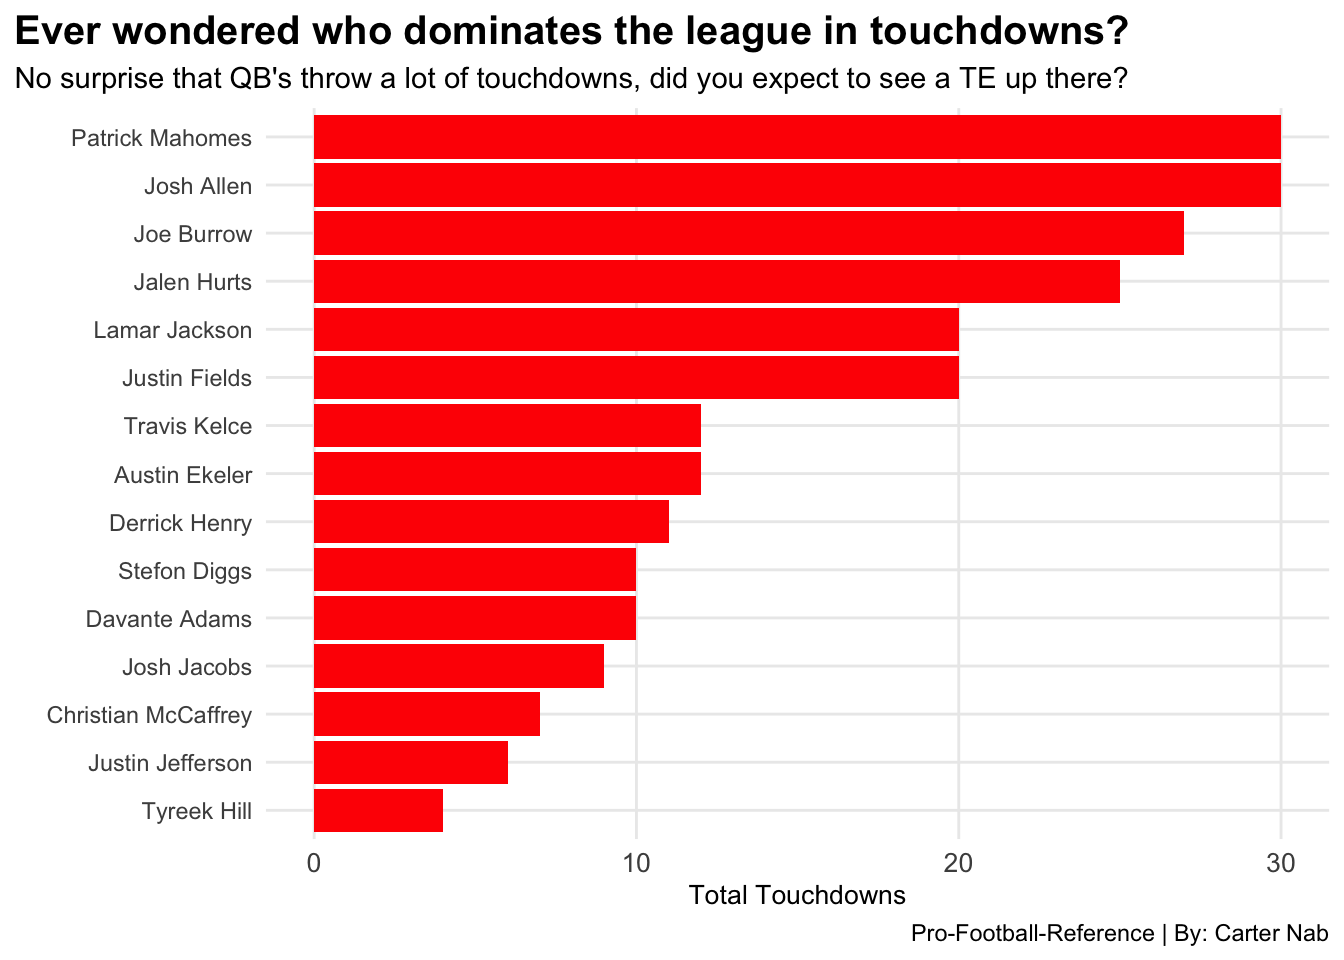
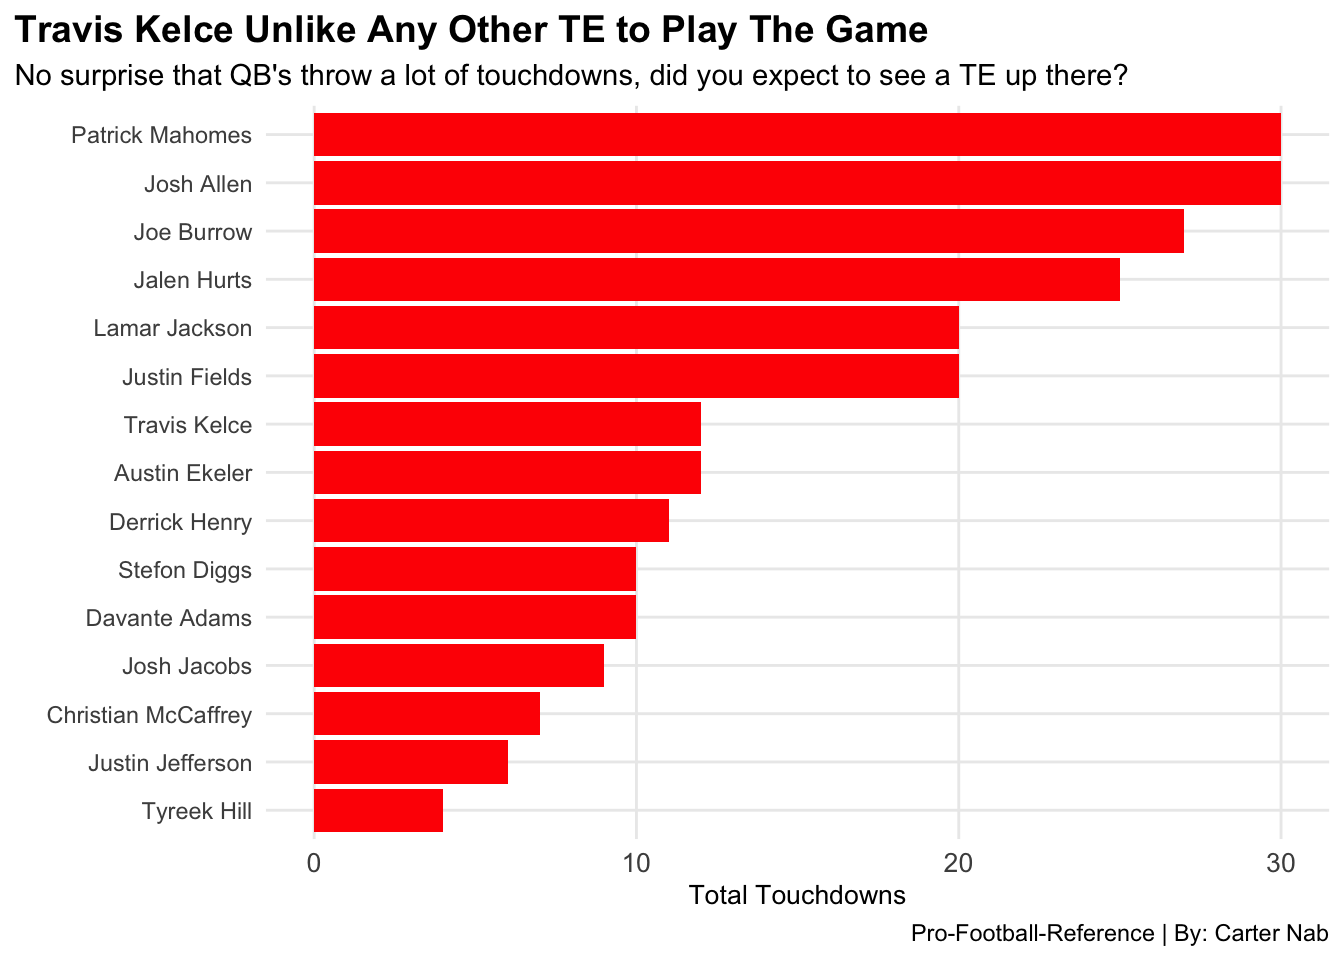
more changes #2

diff --git a/posts/fantasy-football/index.html b/posts/fantasy-football/index.html
@@ -199,7 +199,7 @@ code span.wa { color: #60a0b0; font-weight: bold; font-style: italic; } /* Warni
 
 
 
-<p>Blog post:</p>
+<p>For football fans, this is an very competitive time of year. Odds are your favorite CFB team isn’t going to the Playoff, so like many of you out there we resort to assembling the best possible Fantasy Football team we can to have bragging rights until next season. It is no easy task to draft a Fantasy Football team that will win the league, there’s so many names and positions to remember. The goal of this project is to give some valuable insight on some of the top performing NFL athletes that you should keep in mind for next season!</p>
 <div class="cell">
 <details>
 <summary>Code</summary>
@@ -237,12 +237,12 @@ code span.wa { color: #60a0b0; font-weight: bold; font-style: italic; } /* Warni
 </details>
 <div class="cell-output-display">
 
-<div id="kktmkwhrfo" style="padding-left:0px;padding-right:0px;padding-top:10px;padding-bottom:10px;overflow-x:auto;overflow-y:auto;width:auto;height:auto;">
+<div id="nhlxxgaagm" style="padding-left:0px;padding-right:0px;padding-top:10px;padding-bottom:10px;overflow-x:auto;overflow-y:auto;width:auto;height:auto;">
 <style>html {
   font-family: -apple-system, BlinkMacSystemFont, 'Segoe UI', Roboto, Oxygen, Ubuntu, Cantarell, 'Helvetica Neue', 'Fira Sans', 'Droid Sans', Arial, sans-serif;
 }
 
-#kktmkwhrfo .gt_table {
+#nhlxxgaagm .gt_table {
   display: table;
   border-collapse: collapse;
   margin-left: auto;
@@ -267,7 +267,7 @@ code span.wa { color: #60a0b0; font-weight: bold; font-style: italic; } /* Warni
   border-left-color: #D3D3D3;
 }
 
-#kktmkwhrfo .gt_heading {
+#nhlxxgaagm .gt_heading {
   background-color: #FFFFFF;
   text-align: center;
   border-bottom-color: #FFFFFF;
@@ -279,12 +279,12 @@ code span.wa { color: #60a0b0; font-weight: bold; font-style: italic; } /* Warni
   border-right-color: #D3D3D3;
 }
 
-#kktmkwhrfo .gt_caption {
+#nhlxxgaagm .gt_caption {
   padding-top: 4px;
   padding-bottom: 4px;
 }
 
-#kktmkwhrfo .gt_title {
+#nhlxxgaagm .gt_title {
   color: #333333;
   font-size: 125%;
   font-weight: initial;
@@ -296,7 +296,7 @@ code span.wa { color: #60a0b0; font-weight: bold; font-style: italic; } /* Warni
   border-bottom-width: 0;
 }
 
-#kktmkwhrfo .gt_subtitle {
+#nhlxxgaagm .gt_subtitle {
   color: #333333;
   font-size: 85%;
   font-weight: initial;
@@ -308,13 +308,13 @@ code span.wa { color: #60a0b0; font-weight: bold; font-style: italic; } /* Warni
   border-top-width: 0;
 }
 
-#kktmkwhrfo .gt_bottom_border {
+#nhlxxgaagm .gt_bottom_border {
   border-bottom-style: solid;
   border-bottom-width: 2px;
   border-bottom-color: #D3D3D3;
 }
 
-#kktmkwhrfo .gt_col_headings {
+#nhlxxgaagm .gt_col_headings {
   border-top-style: solid;
   border-top-width: 2px;
   border-top-color: #D3D3D3;
@@ -329,7 +329,7 @@ code span.wa { color: #60a0b0; font-weight: bold; font-style: italic; } /* Warni
   border-right-color: #D3D3D3;
 }
 
-#kktmkwhrfo .gt_col_heading {
+#nhlxxgaagm .gt_col_heading {
   color: #333333;
   background-color: #FFFFFF;
   font-size: 100%;
@@ -349,7 +349,7 @@ code span.wa { color: #60a0b0; font-weight: bold; font-style: italic; } /* Warni
   overflow-x: hidden;
 }
 
-#kktmkwhrfo .gt_column_spanner_outer {
+#nhlxxgaagm .gt_column_spanner_outer {
   color: #333333;
   background-color: #FFFFFF;
   font-size: 100%;
@@ -361,15 +361,15 @@ code span.wa { color: #60a0b0; font-weight: bold; font-style: italic; } /* Warni
   padding-right: 4px;
 }
 
-#kktmkwhrfo .gt_column_spanner_outer:first-child {
+#nhlxxgaagm .gt_column_spanner_outer:first-child {
   padding-left: 0;
 }
 
-#kktmkwhrfo .gt_column_spanner_outer:last-child {
+#nhlxxgaagm .gt_column_spanner_outer:last-child {
   padding-right: 0;
 }
 
-#kktmkwhrfo .gt_column_spanner {
+#nhlxxgaagm .gt_column_spanner {
   border-bottom-style: solid;
   border-bottom-width: 2px;
   border-bottom-color: #D3D3D3;
@@ -381,7 +381,7 @@ code span.wa { color: #60a0b0; font-weight: bold; font-style: italic; } /* Warni
   width: 100%;
 }
 
-#kktmkwhrfo .gt_group_heading {
+#nhlxxgaagm .gt_group_heading {
   padding-top: 8px;
   padding-bottom: 8px;
   padding-left: 5px;
@@ -407,7 +407,7 @@ code span.wa { color: #60a0b0; font-weight: bold; font-style: italic; } /* Warni
   text-align: left;
 }
 
-#kktmkwhrfo .gt_empty_group_heading {
+#nhlxxgaagm .gt_empty_group_heading {
   padding: 0.5px;
   color: #333333;
   background-color: #FFFFFF;
@@ -422,15 +422,15 @@ code span.wa { color: #60a0b0; font-weight: bold; font-style: italic; } /* Warni
   vertical-align: middle;
 }
 
-#kktmkwhrfo .gt_from_md > :first-child {
+#nhlxxgaagm .gt_from_md > :first-child {
   margin-top: 0;
 }
 
-#kktmkwhrfo .gt_from_md > :last-child {
+#nhlxxgaagm .gt_from_md > :last-child {
   margin-bottom: 0;
 }
 
-#kktmkwhrfo .gt_row {
+#nhlxxgaagm .gt_row {
   padding-top: 8px;
   padding-bottom: 8px;
   padding-left: 5px;
@@ -449,7 +449,7 @@ code span.wa { color: #60a0b0; font-weight: bold; font-style: italic; } /* Warni
   overflow-x: hidden;
 }
 
-#kktmkwhrfo .gt_stub {
+#nhlxxgaagm .gt_stub {
   color: #333333;
   background-color: #FFFFFF;
   font-size: 100%;
@@ -462,7 +462,7 @@ code span.wa { color: #60a0b0; font-weight: bold; font-style: italic; } /* Warni
   padding-right: 5px;
 }
 
-#kktmkwhrfo .gt_stub_row_group {
+#nhlxxgaagm .gt_stub_row_group {
   color: #333333;
   background-color: #FFFFFF;
   font-size: 100%;
@@ -476,11 +476,11 @@ code span.wa { color: #60a0b0; font-weight: bold; font-style: italic; } /* Warni
   vertical-align: top;
 }
 
-#kktmkwhrfo .gt_row_group_first td {
+#nhlxxgaagm .gt_row_group_first td {
   border-top-width: 2px;
 }
 
-#kktmkwhrfo .gt_summary_row {
+#nhlxxgaagm .gt_summary_row {
   color: #333333;
   background-color: #FFFFFF;
   text-transform: inherit;
@@ -490,16 +490,16 @@ code span.wa { color: #60a0b0; font-weight: bold; font-style: italic; } /* Warni
   padding-right: 5px;
 }
 
-#kktmkwhrfo .gt_first_summary_row {
+#nhlxxgaagm .gt_first_summary_row {
   border-top-style: solid;
   border-top-color: #D3D3D3;
 }
 
-#kktmkwhrfo .gt_first_summary_row.thick {
+#nhlxxgaagm .gt_first_summary_row.thick {
   border-top-width: 2px;
 }
 
-#kktmkwhrfo .gt_last_summary_row {
+#nhlxxgaagm .gt_last_summary_row {
   padding-top: 8px;
   padding-bottom: 8px;
   padding-left: 5px;
@@ -509,7 +509,7 @@ code span.wa { color: #60a0b0; font-weight: bold; font-style: italic; } /* Warni
   border-bottom-color: #D3D3D3;
 }
 
-#kktmkwhrfo .gt_grand_summary_row {
+#nhlxxgaagm .gt_grand_summary_row {
   color: #333333;
   background-color: #FFFFFF;
   text-transform: inherit;
@@ -519,7 +519,7 @@ code span.wa { color: #60a0b0; font-weight: bold; font-style: italic; } /* Warni
   padding-right: 5px;
 }
 
-#kktmkwhrfo .gt_first_grand_summary_row {
+#nhlxxgaagm .gt_first_grand_summary_row {
   padding-top: 8px;
   padding-bottom: 8px;
   padding-left: 5px;
@@ -529,11 +529,11 @@ code span.wa { color: #60a0b0; font-weight: bold; font-style: italic; } /* Warni
   border-top-color: #D3D3D3;
 }
 
-#kktmkwhrfo .gt_striped {
+#nhlxxgaagm .gt_striped {
   background-color: rgba(128, 128, 128, 0.05);
 }
 
-#kktmkwhrfo .gt_table_body {
+#nhlxxgaagm .gt_table_body {
   border-top-style: solid;
   border-top-width: 2px;
   border-top-color: #D3D3D3;
@@ -542,7 +542,7 @@ code span.wa { color: #60a0b0; font-weight: bold; font-style: italic; } /* Warni
   border-bottom-color: #D3D3D3;
 }
 
-#kktmkwhrfo .gt_footnotes {
+#nhlxxgaagm .gt_footnotes {
   color: #333333;
   background-color: #FFFFFF;
   border-bottom-style: none;
@@ -556,7 +556,7 @@ code span.wa { color: #60a0b0; font-weight: bold; font-style: italic; } /* Warni
   border-right-color: #D3D3D3;
 }
 
-#kktmkwhrfo .gt_footnote {
+#nhlxxgaagm .gt_footnote {
   margin: 0px;
   font-size: 90%;
   padding-left: 4px;
@@ -565,7 +565,7 @@ code span.wa { color: #60a0b0; font-weight: bold; font-style: italic; } /* Warni
   padding-right: 5px;
 }
 
-#kktmkwhrfo .gt_sourcenotes {
+#nhlxxgaagm .gt_sourcenotes {
   color: #333333;
   background-color: #FFFFFF;
   border-bottom-style: none;
@@ -579,7 +579,7 @@ code span.wa { color: #60a0b0; font-weight: bold; font-style: italic; } /* Warni
   border-right-color: #D3D3D3;
 }
 
-#kktmkwhrfo .gt_sourcenote {
+#nhlxxgaagm .gt_sourcenote {
   font-size: 90%;
   padding-top: 4px;
   padding-bottom: 4px;
@@ -587,64 +587,64 @@ code span.wa { color: #60a0b0; font-weight: bold; font-style: italic; } /* Warni
   padding-right: 5px;
 }
 
-#kktmkwhrfo .gt_left {
+#nhlxxgaagm .gt_left {
   text-align: left;
 }
 
-#kktmkwhrfo .gt_center {
+#nhlxxgaagm .gt_center {
   text-align: center;
 }
 
-#kktmkwhrfo .gt_right {
+#nhlxxgaagm .gt_right {
   text-align: right;
   font-variant-numeric: tabular-nums;
 }
 
-#kktmkwhrfo .gt_font_normal {
+#nhlxxgaagm .gt_font_normal {
   font-weight: normal;
 }
 
-#kktmkwhrfo .gt_font_bold {
+#nhlxxgaagm .gt_font_bold {
   font-weight: bold;
 }
 
-#kktmkwhrfo .gt_font_italic {
+#nhlxxgaagm .gt_font_italic {
   font-style: italic;
 }
 
-#kktmkwhrfo .gt_super {
+#nhlxxgaagm .gt_super {
   font-size: 65%;
 }
 
-#kktmkwhrfo .gt_footnote_marks {
+#nhlxxgaagm .gt_footnote_marks {
   font-style: italic;
   font-weight: normal;
   font-size: 75%;
   vertical-align: 0.4em;
 }
 
-#kktmkwhrfo .gt_asterisk {
+#nhlxxgaagm .gt_asterisk {
   font-size: 100%;
   vertical-align: 0;
 }
 
-#kktmkwhrfo .gt_indent_1 {
+#nhlxxgaagm .gt_indent_1 {
   text-indent: 5px;
 }
 
-#kktmkwhrfo .gt_indent_2 {
+#nhlxxgaagm .gt_indent_2 {
   text-indent: 10px;
 }
 
-#kktmkwhrfo .gt_indent_3 {
+#nhlxxgaagm .gt_indent_3 {
   text-indent: 15px;
 }
 
-#kktmkwhrfo .gt_indent_4 {
+#nhlxxgaagm .gt_indent_4 {
   text-indent: 20px;
 }
 
-#kktmkwhrfo .gt_indent_5 {
+#nhlxxgaagm .gt_indent_5 {
   text-indent: 25px;
 }
 </style>
@@ -753,6 +753,7 @@ code span.wa { color: #60a0b0; font-weight: bold; font-style: italic; } /* Warni
 </div>
 </div>
 </div>
+<p>If you’re familiar with the NFL all of these names should be very recognizable. Through 12 weeks of the 2022 NFL season these are the highest preforming athletes in terms of fantasy points. This list of the top 15 is made up of six quarterbacks, four running backs, four wide receivers and one tight end. If you can manage to draft two-four players from this list youll have a solid change of making the playoffs.</p>
 <div class="cell">
 <details>
 <summary>Code</summary>
@@ -770,7 +771,7 @@ code span.wa { color: #60a0b0; font-weight: bold; font-style: italic; } /* Warni
 <span id="cb2-12"><a href="#cb2-12" aria-hidden="true" tabindex="-1"></a>  <span class="fu">geom_bar</span>(<span class="at">data=</span>Touchdowns, <span class="fu">aes</span>(<span class="at">x=</span><span class="fu">reorder</span>(Player, TotalTouchdowns), <span class="at">weight=</span>TotalTouchdowns), <span class="at">fill=</span> <span class="st">"red"</span>) <span class="sc">+</span></span>
 <span id="cb2-13"><a href="#cb2-13" aria-hidden="true" tabindex="-1"></a>  <span class="fu">coord_flip</span>() <span class="sc">+</span></span>
 <span id="cb2-14"><a href="#cb2-14" aria-hidden="true" tabindex="-1"></a>  <span class="fu">labs</span>(</span>
-<span id="cb2-15"><a href="#cb2-15" aria-hidden="true" tabindex="-1"></a>    <span class="at">title =</span> <span class="st">"Ever wondered who dominates the league in touchdowns?"</span>,</span>
+<span id="cb2-15"><a href="#cb2-15" aria-hidden="true" tabindex="-1"></a>    <span class="at">title =</span> <span class="st">"Travis Kelce Unlike Any Other TE to Play The Game"</span>,</span>
 <span id="cb2-16"><a href="#cb2-16" aria-hidden="true" tabindex="-1"></a>    <span class="at">subtitle =</span> <span class="st">"No surprise that QB's throw a lot of touchdowns, did you expect to see a TE up there?"</span>,</span>
 <span id="cb2-17"><a href="#cb2-17" aria-hidden="true" tabindex="-1"></a>    <span class="at">x =</span> <span class="st">""</span>,</span>
 <span id="cb2-18"><a href="#cb2-18" aria-hidden="true" tabindex="-1"></a>    <span class="at">y =</span> <span class="st">"Total Touchdowns"</span>,</span>
@@ -778,7 +779,7 @@ code span.wa { color: #60a0b0; font-weight: bold; font-style: italic; } /* Warni
 <span id="cb2-20"><a href="#cb2-20" aria-hidden="true" tabindex="-1"></a>  ) <span class="sc">+</span></span>
 <span id="cb2-21"><a href="#cb2-21" aria-hidden="true" tabindex="-1"></a>  <span class="fu">theme_minimal</span>() <span class="sc">+</span></span>
 <span id="cb2-22"><a href="#cb2-22" aria-hidden="true" tabindex="-1"></a>  <span class="fu">theme</span>(</span>
-<span id="cb2-23"><a href="#cb2-23" aria-hidden="true" tabindex="-1"></a>    <span class="at">plot.title =</span> <span class="fu">element_text</span>(<span class="at">size =</span> <span class="dv">15</span>, <span class="at">face =</span> <span class="st">"bold"</span>),</span>
+<span id="cb2-23"><a href="#cb2-23" aria-hidden="true" tabindex="-1"></a>    <span class="at">plot.title =</span> <span class="fu">element_text</span>(<span class="at">size =</span> <span class="dv">14</span>, <span class="at">face =</span> <span class="st">"bold"</span>),</span>
 <span id="cb2-24"><a href="#cb2-24" aria-hidden="true" tabindex="-1"></a>    <span class="at">axis.title =</span> <span class="fu">element_text</span>(<span class="at">size =</span> <span class="dv">10</span>), </span>
 <span id="cb2-25"><a href="#cb2-25" aria-hidden="true" tabindex="-1"></a>    <span class="at">plot.subtitle =</span> <span class="fu">element_text</span>(<span class="at">size=</span><span class="dv">11</span>), </span>
 <span id="cb2-26"><a href="#cb2-26" aria-hidden="true" tabindex="-1"></a>    <span class="at">panel.grid.minor =</span> <span class="fu">element_blank</span>(),</span>
@@ -790,6 +791,7 @@ code span.wa { color: #60a0b0; font-weight: bold; font-style: italic; } /* Warni
 <p><img src="index_files/figure-html/unnamed-chunk-2-1.png" class="img-fluid" width="672"></p>
 </div>
 </div>
+<p>The best Fantasy players all have something in common, they score a lot of touchdowns. While its more typical for quarterbacks to have the most because they’re the most involved, what you really want is a RB, WR, or TE that scores a lot. Travis Kelce appears to be in a league of his own as the only tight end on this list.</p>
 <div class="cell">
 <details>
 <summary>Code</summary>

diff --git a/index.html b/index.html
@@ -157,7 +157,7 @@ ul.task-list{list-style: none;}
 
 <div class="quarto-listing quarto-listing-container-default" id="listing-listing">
 <div class="list quarto-listing-default">
-<div class="quarto-post image-right" data-index="0" data-categories="Fantasy,Football,analysis" data-listing-date-sort="1669874400000" data-listing-file-modified-sort="1670185267375" data-listing-reading-time-sort="1.55">
+<div class="quarto-post image-right" data-index="0" data-categories="Fantasy,Football,analysis" data-listing-date-sort="1669874400000" data-listing-file-modified-sort="1670191067782" data-listing-reading-time-sort="2.735">
 <div class="thumbnail">
 <p><a href="./posts/fantasy-football/index.html"> <img src="./posts/fantasy-football/image.png" class="thumnail-image"> </a></p>
 </div>
@@ -183,7 +183,7 @@ analysis
 </div>
 <a href="./posts/fantasy-football/index.html">
 <div class="listing-description">
-Blog post:
+For football fans, this is an very competitive time of year. Odds are your favorite CFB team isn’t going to the Playoff, so like many of you out there we resort to assembling the best possible Fantasy Football team we can to have bragging rights until next season. It is no easy task to draft a Fantasy Football team that will win the league, there’s so many names and positions to remember. The goal of this project is to give some valuable insight on some of the top performing NFL athletes that you should keep in mind for next season!
 </div>
 </a>
 </div>
